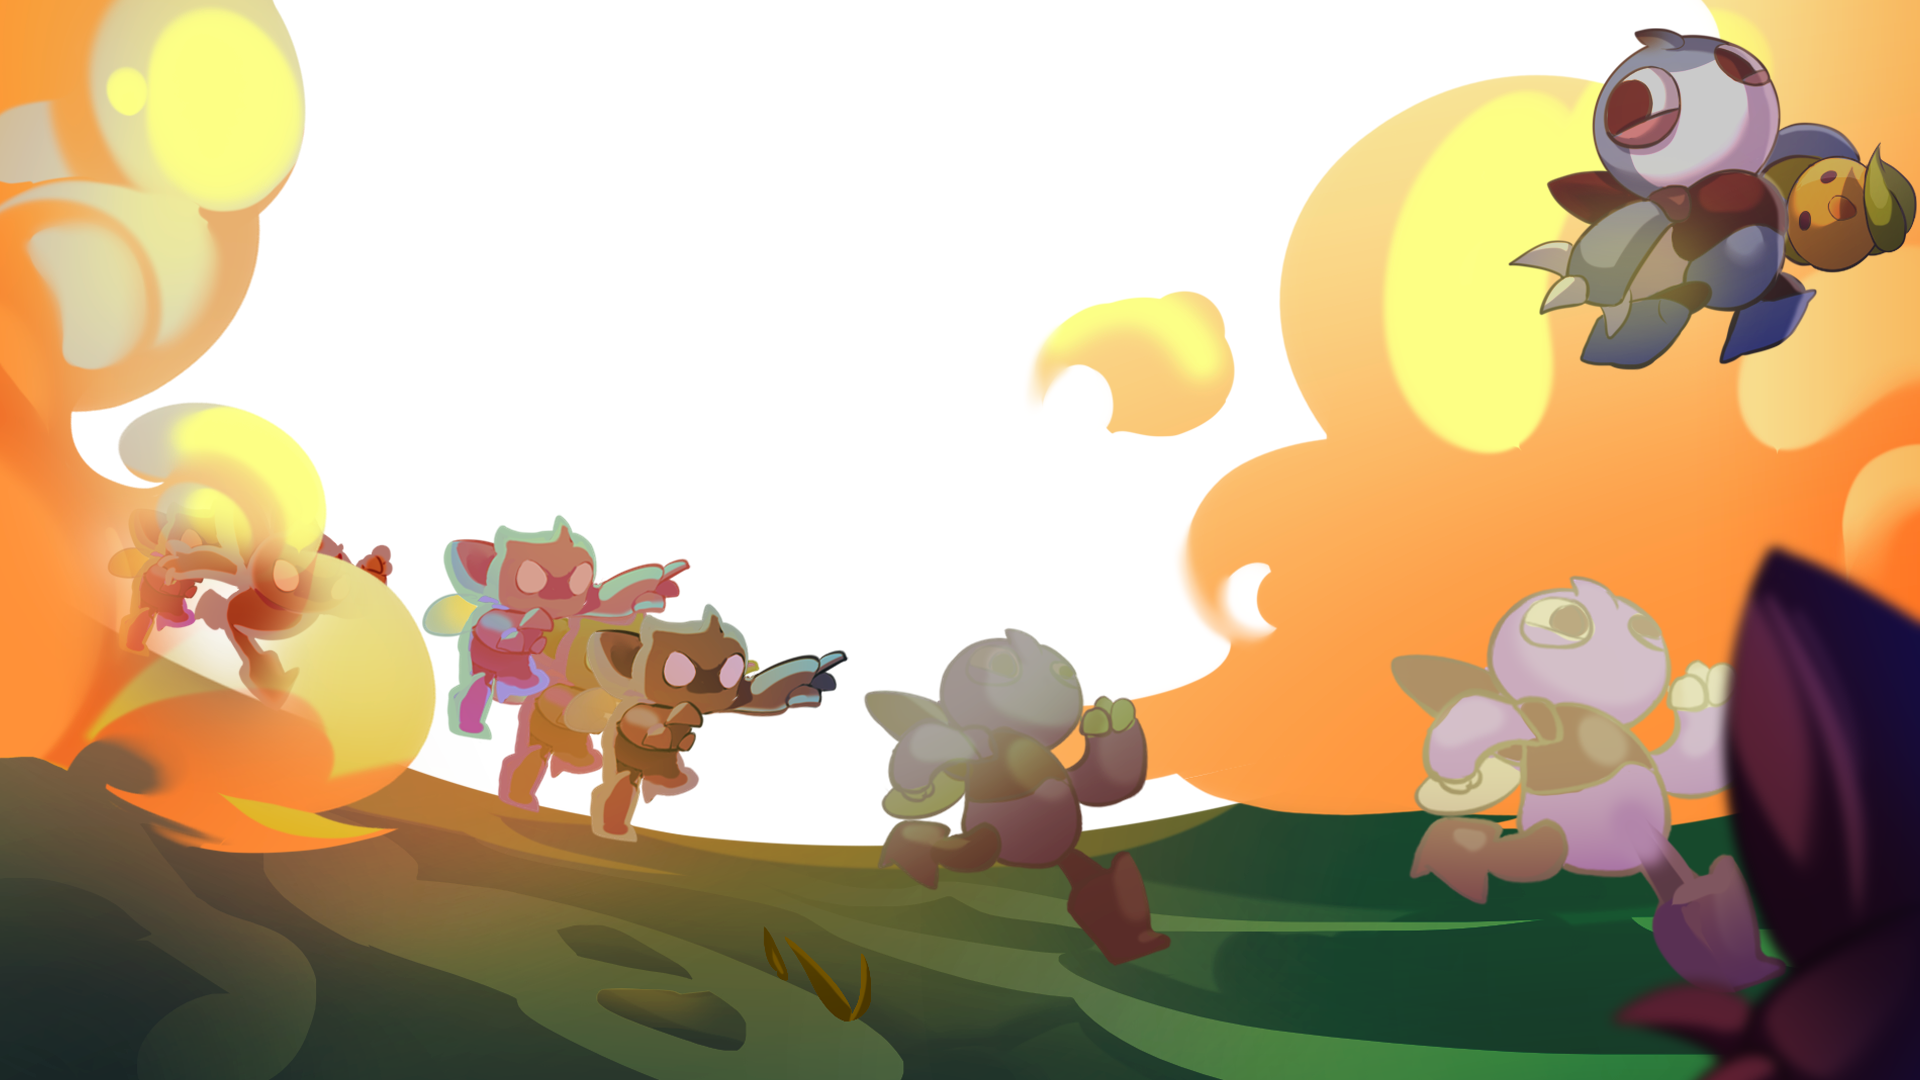
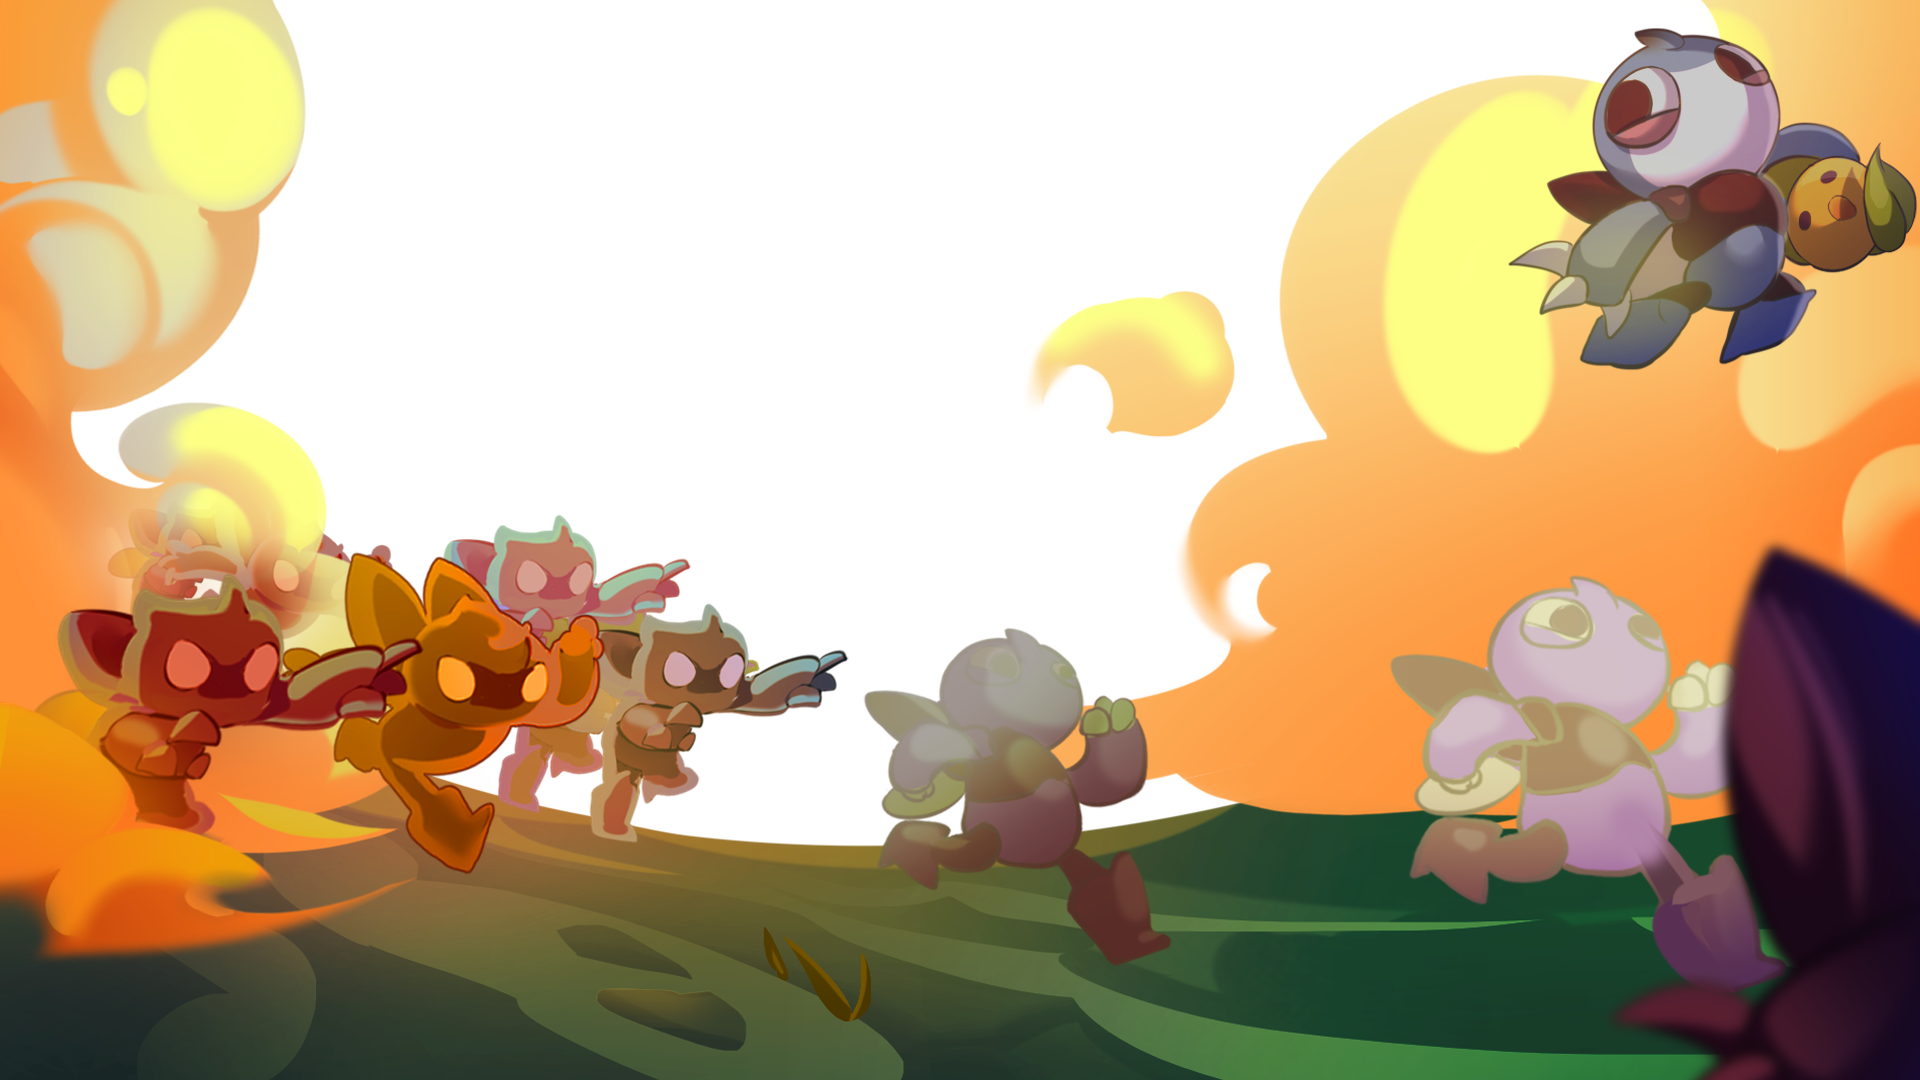
Change of bug

Changed region(s): [[0.0, 0.5194, 0.3125, 0.8861]]

diff --git a/index.html b/index.html
@@ -38,7 +38,7 @@
             <div class="parallax__layer parallax__layer--base">
 
                  <img id="logo" src="./resources/images/bugswarlogo.png" />
-                 <img src="./resources/images/midbug.png" />
+
 
     <div class="wrapper">
                     <div id="group1-scene" class="scene">
